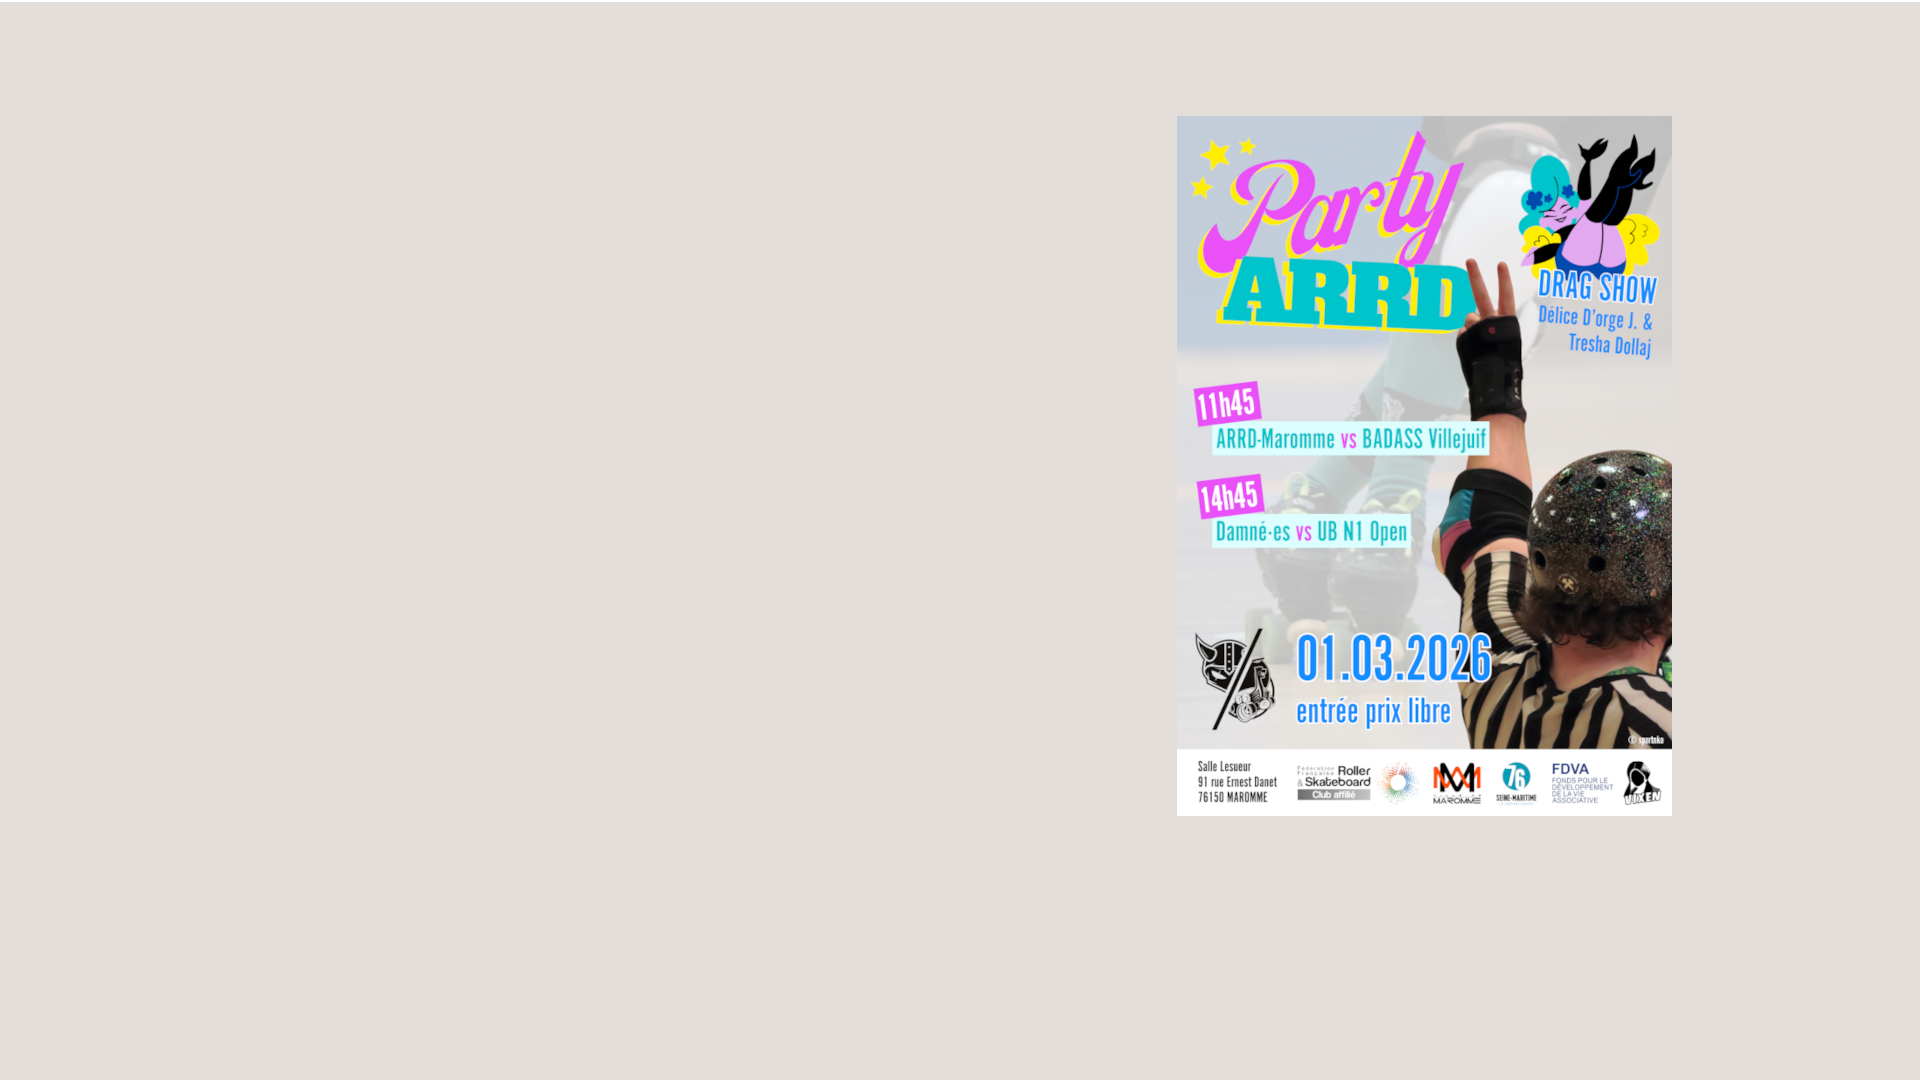
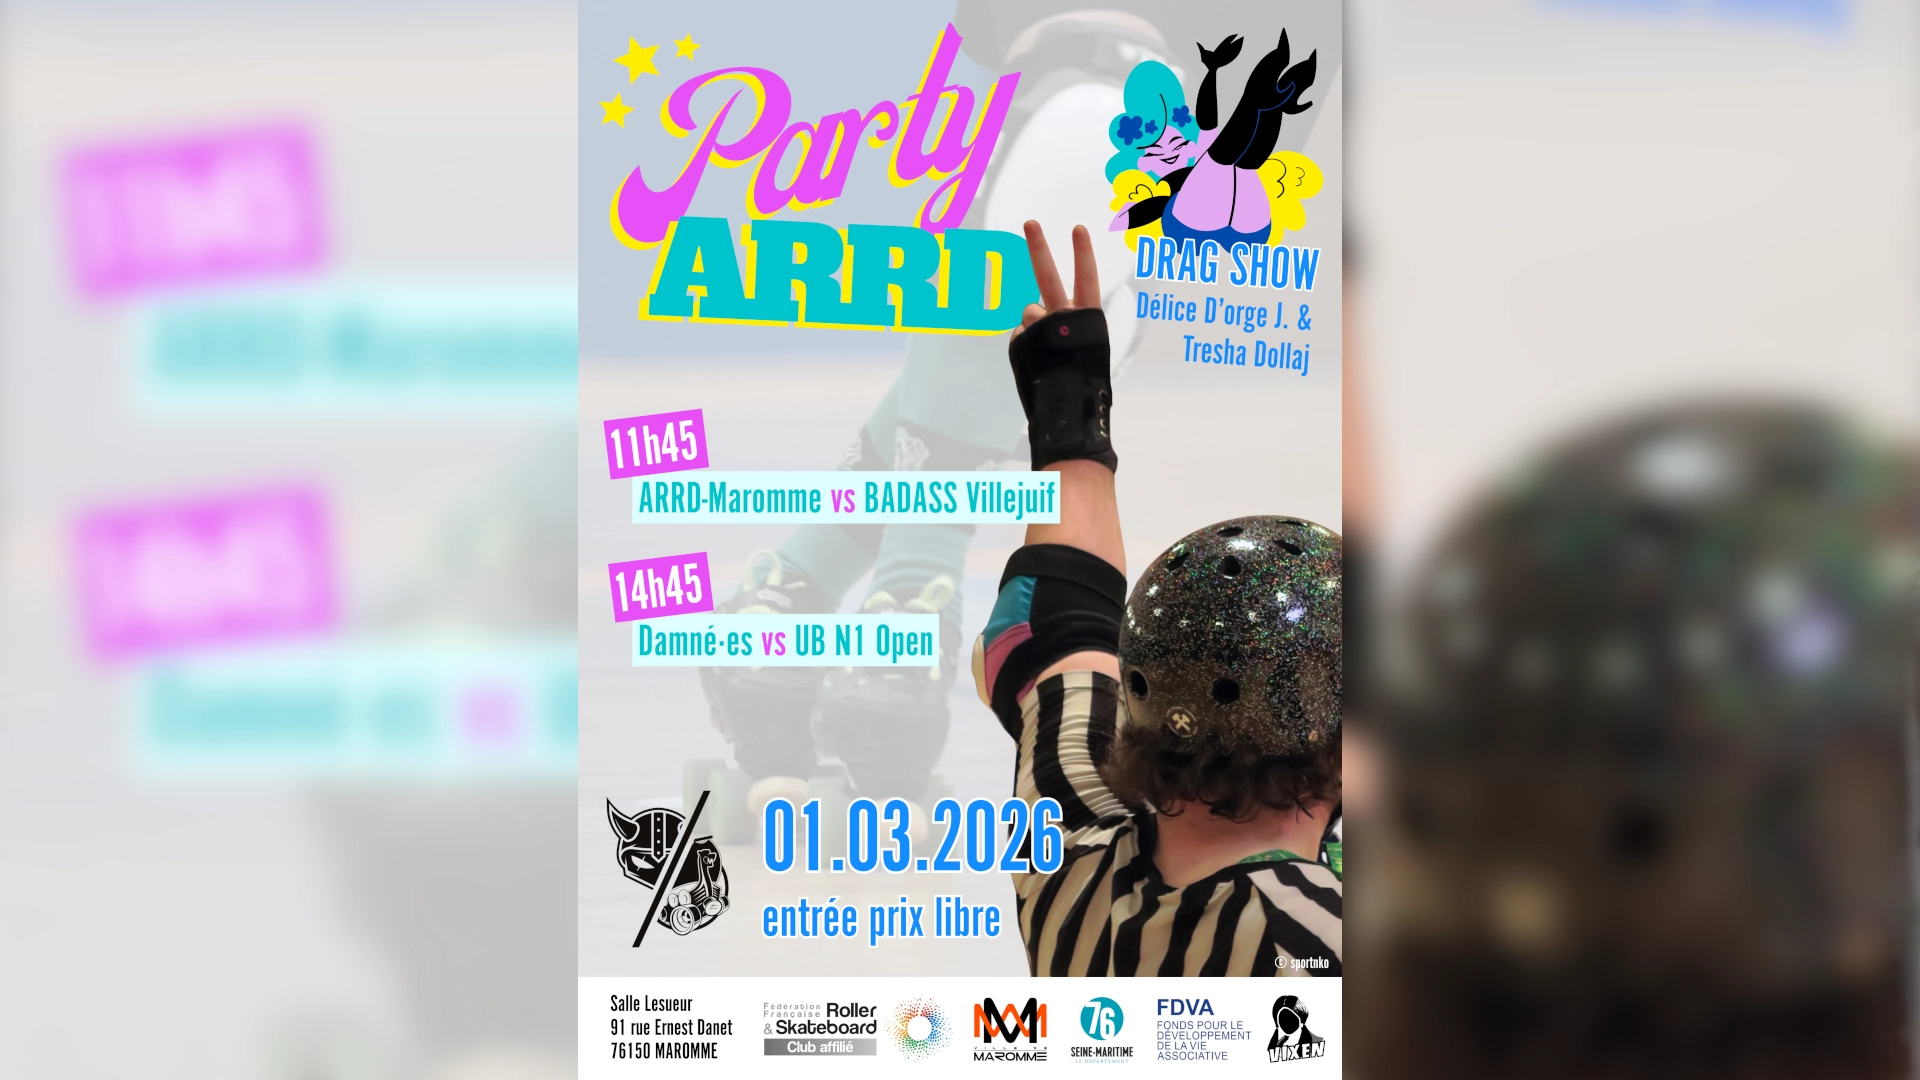
fix images

diff --git a/lib/Caroussel/Caroussel.tsx b/lib/Caroussel/Caroussel.tsx
@@ -10,7 +10,6 @@ export default function Caroussel() {
 
   const NUM_IMAGES = isMobile ? 4 : 3;
 
-
   return (
     <div className={classes.container}>
       <div className={classes.slider}>
@@ -30,6 +29,7 @@ export default function Caroussel() {
           {Array.from({ length: NUM_IMAGES }, (_, index) => index + 1).map((num: number) => (
             <div className={classes.slide} key={num}>
               <img
+                alt={`Image ${num}`}
                 src={`/${isMobile ? 'mobile' : 'desktop'}/${num}.webp`}
                 width={isMobile ? 1080 : 1920}
                 height={isMobile ? 1920 : 1080}

diff --git a/lib/Caroussel/Caroussel.module.css b/lib/Caroussel/Caroussel.module.css
@@ -69,7 +69,8 @@
 
 .carroussel img {
   height: 100dvh;
-  object-fit: cover;
+  width: auto;
+  object-fit: contain;
   object-position: center;
 }
 
